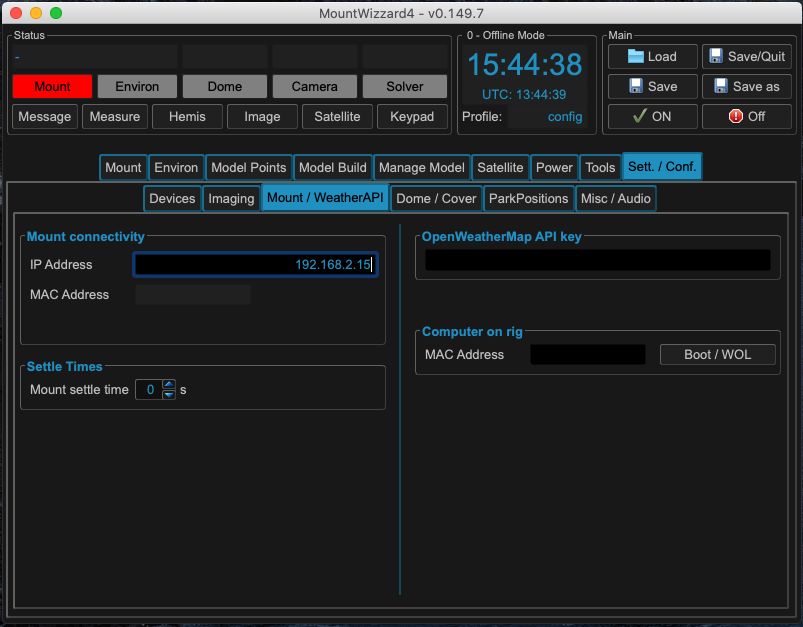
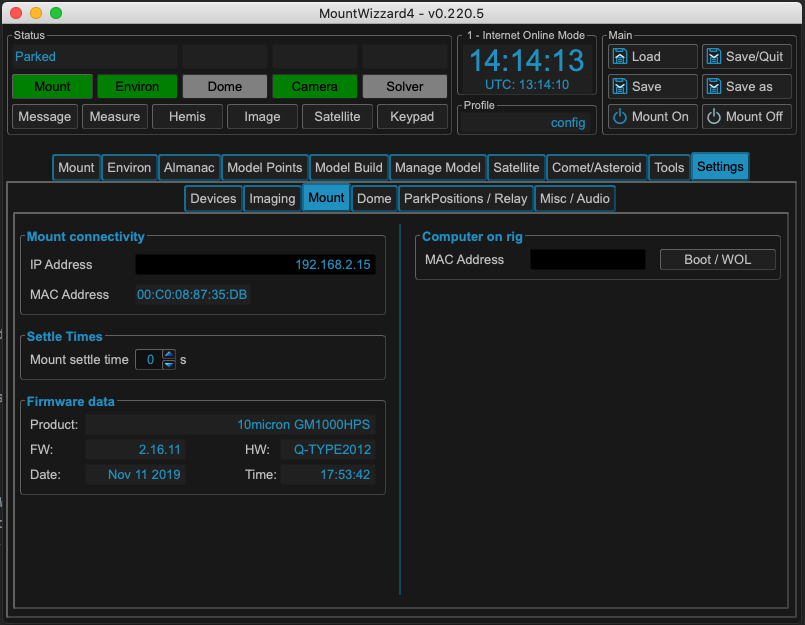
update docs

diff --git a/docs/source/explain/setting.rst b/docs/source/explain/setting.rst
@@ -1,21 +1,23 @@
 Main Window Settings Tab
 ========================
-In the main window the last tab called "Sett. / Conf." points to menu where all the settings
-for MW4 could be configured. It is like the main window split into multiple Tabs.
+In the main window the last tab called "Sett. / Conf." points to menu where all
+the settings for MW4 could be configured. It is like the main window split into
+multiple Tabs.
 
 Devices Tab
 -----------
-The devices tab is the central point for MW4 to define the devices, which are used within
-the program. Drop down lists let you select the appropriate device source or disable it.
-Disabled devices might occur gray in the menu or are even removed (like Relay or Power)
+The devices tab is the central point for MW4 to define the devices, which are used
+within the program. Drop down lists let you select the appropriate device source
+or disable it. Disabled devices might occur gray in the menu or are even removed
+(like Relay or Power)
 
 .. image:: image/sett_devices_tab.png
     :align: center
     :scale: 71%
 
-The drop down lists are colored in green, whenever a device could be connected. A status
-change could take some seconds to connect to a server or to start runtime. There is no need
-to get all devices populated if not needed.
+The drop down lists are colored in green, whenever a device could be connected. A
+status change could take some seconds to connect to a server or to start runtime.
+There is no need to get all devices populated if not needed.
 
 The following different device types are present:
 
@@ -39,16 +41,16 @@ The following different device types are present:
 
 A snoop device is only read for information, but not needed for active functions.
 
-Some of the devices have a setup button. When selecting, a popup window will show up. You
-have to make selections for an INDI server:
+Some of the devices have a setup button. When selecting, a popup window will show
+up. You have to make selections for an INDI server:
 
 .. image:: image/sett_devices_popup_indi.png
     :align: center
     :scale: 71%
 
-For the INDI configuration you could search for devices of the given type and select them
-via drop down menu. In addition you could copy the settings for host address, host port,
-showing indi messages in main message window to all INDI devices.
+For the INDI configuration you could search for devices of the given type and
+select them via drop down menu. In addition you could copy the settings for host
+address, host port, showing indi messages in main message window to all INDI devices.
 
 MW4 supports ASCOM ALPACA as well:
 
@@ -56,8 +58,8 @@ MW4 supports ASCOM ALPACA as well:
     :align: center
     :scale: 71%
 
-For ALPACA you setup the parameter accordingly. Like in INDI you could copy the protocol,
-host address, host port, user and password to all other alpaca device.
+For ALPACA you setup the parameter accordingly. Like in INDI you could copy the
+protocol, host address, host port, user and password to all other alpaca device.
 
 
 Imaging Tab
@@ -70,33 +72,35 @@ The imaging tab is central setup for all things related to gather images.
 
 Area 1: Imaging Settings
 ^^^^^^^^^^^^^^^^^^^^^^^^
-The most important functions needed for the camera, cooler, filter wheel is set there. Some
-of the functions are only available when your device supports it (like ISO, sub frame etc.).
+The most important functions needed for the camera, cooler, filter wheel is set
+there. Some of the functions are only available when your device supports it (like
+ISO, sub frame etc.).
 
 Area 2: Image handling
 ^^^^^^^^^^^^^^^^^^^^^^
-You could enable fast download of images from your camera (3) - if supported and decide and
-check if you would like to keep the images from model build on your disk. Normally all data
-after a model build is stored anyway. So if you dont need the images for analyse later,
-there is no need for keep them.
+You could enable fast download of images from your camera (3) - if supported and
+decide and check if you would like to keep the images from model build on your
+disk. Normally all data after a model build is stored anyway. So if you dont need
+the images for analyse later, there is no need for keep them.
 
 Area 3: Imaging Parameters
 ^^^^^^^^^^^^^^^^^^^^^^^^^^
-Parameters of you imaging train are collected, calculated and shown there. For accessing all
-parameters, MW4 needs the telescope snooping set and the parameters set in your INDI server.
+Parameters of you imaging train are collected, calculated and shown there. For
+accessing all parameters, MW4 needs the telescope snooping set and the parameters
+set in your INDI server.
 
 Area 4: Imaging Quality
 ^^^^^^^^^^^^^^^^^^^^^^^
-Out of literature there are some known quality parameters, which MW4 calculates for you. It
-might help you in choosing the right setup, it's for information only.
+Out of literature there are some known quality parameters, which MW4 calculates
+for you. It might help you in choosing the right setup, it's for information only.
 
 Area 5: Solver
 ^^^^^^^^^^^^^^
-There aren't much setting for the solver to be made. MW4 uses external programs for plate
-solving an image. You should set the search radius and the solving timeout. Good value are
-30 degrees for radius and 30 seconds for timeout.
+There aren't much setting for the solver to be made. MW4 uses external programs
+for plate solving an image. You should set the search radius and the solving
+timeout. Good value are 30 degrees for radius and 30 seconds for timeout.
 
-Mount / Weather Tab
+Mount Tab
 -------------------
 .. image:: image/sett_mount_tab.png
     :align: center
@@ -104,38 +108,37 @@ Mount / Weather Tab
 
 Area 1: Mount Connectivity
 ^^^^^^^^^^^^^^^^^^^^^^^^^^
-For MW4, the mount has to be connected via an IP connection. A serial link is not supported!
+For MW4, the mount has to be connected via an IP connection. A serial link is not
+supported!
 
 .. note::
-    I recommend a wired connected (ethernet cable) as there is heavy communication with the
-    mount computer when running a rich feature set.
+    I recommend a wired connected (ethernet cable) as there is heavy communication
+    with the mount computer when running a rich feature set.
 
-You could enter the ip address numerical but as well in general host name string. Once you
-connect the mount and booted it manually, the MAC address field and the connection type will
-be populated automatically. If you enabled wake on lan (WOL) for booting the mount, MW4 from
-then on could boot the mount with this command.
+You could enter the ip address numerical but as well in general host name string.
+Once you connect the mount and booted it manually, the MAC address field and the
+connection type will be populated automatically. If you enabled wake on lan (WOL)
+for booting the mount, MW4 from then on could boot the mount with this command.
 
 .. note::
-    Wake on lan functionality is only available on a wired connection and if you mount
-    computer and the device your are running MW4 on is in the same subnet of you network.
+    Wake on lan functionality is only available on a wired connection and if you
+    mount computer and the device your are running MW4 on is in the same subnet of
+    you network.
 
 Area 2: Mount Settle Time
 ^^^^^^^^^^^^^^^^^^^^^^^^^
-After slewing your setup might need some time for settle before starting imaging again. With
-this parameter you could choose the waiting time.
+After slewing your setup might need some time for settle before starting imaging
+again. With this parameter you could choose the waiting time.
 
-Area 3: OpenWeatherMap API
-^^^^^^^^^^^^^^^^^^^^^^^^^^
-Open Weather delivers a free forecast of the environment conditions based on your location.
-You could apply for an API key there: https://openweathermap.org. As out of now for the
-basic service it's free of charge and Open Weather delivers refraction data for your location.
-To enable the service within MW4, you have to enter your API key.
+Area 3: Mount Firmware data
+^^^^^^^^^^^^^^^^^^^^^^^^^^^
+All firmware information from you mount is displayed here.
 
 Area 4: Computer on rig
 ^^^^^^^^^^^^^^^^^^^^^^^
-If you have a computer on your rig, which could be booted via wake on lan as well, you could
-enter the MAC address here and remote boot this computer from MW4. There are the same
-limitations for WOL like for the mount.
+If you have a computer on your rig, which could be booted via wake on lan as well,
+you could enter the MAC address here and remote boot this computer from MW4. There
+are the same limitations for WOL like for the mount.
 
 Dome / Cover Tab
 ----------------
@@ -147,24 +150,25 @@ MW4 could handle a dome which is connected via INDI.
 
 Area 1: Dome geometry
 ^^^^^^^^^^^^^^^^^^^^^
-If a dome is connected and as device setup, MW4 will slew the dome to the azimuth, the mount
-is slewed to automatically. If you own an all sky dome this is sufficient. In other setups
-there is the need to calculate the right dome opening for the appropriate geometry in your
-setup. In this case, please check the enable geometry calculations box and setup the geometry
-parameters of your dome and the position of your mount in relation to the dome. If you think
-of the center point of the dome as a hemisphere, the distances (offsets) from your mount to
-this point have to be entered. The base point of the mount is the center of the mount
-adapter ring.
+If a dome is connected and as device setup, MW4 will slew the dome to the azimuth,
+the mount is slewed to automatically. If you own an all sky dome this is
+sufficient. In other setups there is the need to calculate the right dome opening
+for the appropriate geometry in your setup. In this case, please check the enable
+geometry calculations box and setup the geometry parameters of your dome and the
+position of your mount in relation to the dome. If you think of the center point
+of the dome as a hemisphere, the distances (offsets) from your mount to this point
+have to be entered. The base point of the mount is the center of the mount adapter
+ring.
 
-For setting up the GEM and OTA offset the picture (3) should help you. There is no need for
-setting both of them. GEM offset is the more known parameter whereas OTA offset might be
-easier to measure. As they are dependant on each other, MW4 will calculate the other
-parameter automatically for you.
+For setting up the GEM and OTA offset the picture (3) should help you. There is no
+need for setting both of them. GEM offset is the more known parameter whereas OTA
+offset might be easier to measure. As they are dependant on each other, MW4 will
+calculate the other parameter automatically for you.
 
 Area 2: Dome Settle time
 ^^^^^^^^^^^^^^^^^^^^^^^^
-After moving your dome, your setup might need some time for settle before starting imaging
-again. With this parameter you could choose the waiting time.
+After moving your dome, your setup might need some time for settle before starting
+imaging again. With this parameter you could choose the waiting time.
 
 Area 4: Cover
 ^^^^^^^^^^^^^
@@ -172,16 +176,16 @@ If you have a telescope cover device setup, you could open and close your cover.
 
 Park Position Tab
 -----------------
-MW4 stores up to 10 different park positions for you. You could setup these positions with
-text (the text will be displayed in the tools menu), and altitude and azimuth for the
-position.
+MW4 stores up to 10 different park positions for you. You could setup these
+positions with text (the text will be displayed in the tools menu), and altitude
+and azimuth for the position.
 
 .. image:: image/sett_dome_tab.png
     :align: center
     :scale: 71%
 
-The fill in button in each line allows to directly set altitude and azimuth of the actual
-position in the according fields.
+The fill in button in each line allows to directly set altitude and azimuth of the
+actual position in the according fields.
 
 Audio / Misc Tab
 ----------------
@@ -191,8 +195,8 @@ Audio / Misc Tab
 
 Area 1: Internet Connection
 ^^^^^^^^^^^^^^^^^^^^^^^^^^^
-You could tell MW4 to get online and update data or stay in unconnected mode. There are some
-functions, which need an online connection to work properly:
+You could tell MW4 to get online and update data or stay in unconnected mode.
+There are some functions, which need an online connection to work properly:
 
 .. list-table:: Online related Services
     :widths: 25, 75
@@ -213,34 +217,30 @@ functions, which need an online connection to work properly:
 Area 2: Updater
 ^^^^^^^^^^^^^^^
 MW4 is able to handle updates via the python package management. You see the actual
-installed version and the available version. Pressing install will update MW4. You need to
-restart MW4 to run the new version.
+installed version and the available version. Pressing install will update MW4. You
+need to restart MW4 to run the new version.
 
-MW4 offers to install alpha or beta releases as well. If you would like to do so, please
-check the according box.
+MW4 offers to install alpha or beta releases as well. If you would like to do so,
+please check the according box.
 
-Area 3: Firmware Data
-^^^^^^^^^^^^^^^^^^^^^
-Actual firmware data is collected and shown in this area.
-
-Area 4: Logging Levels
+Area 3: Logging Levels
 ^^^^^^^^^^^^^^^^^^^^^^
-As MW4 is not perfect things might happen and to review the situation and review it, MW4
-writes log files. For all release versions information setting is ok, for alpha and beta
-version debugging should be set. The log file could become big as MW4 tries to log all data
-needed for bugfixing.
+As MW4 is not perfect things might happen and to review the situation and review
+it, MW4 writes log files. For all release versions information setting is ok, for
+alpha and beta version debugging should be set. The log file could become big as
+MW4 tries to log all data needed for bugfixing.
 
 .. note::
-    If you experience problems or want to file a bug, please attach the log file from your
-    work directory. The best way to file a problem is to open an issue on:
+    If you experience problems or want to file a bug, please attach the log file
+    from your work directory. The best way to file a problem is to open an issue on:
 
     https://github.com/mworion/MountWizzard4/issues.
 
-    Please take the time for a explanation what happened and drop the log file to this issue
-    as well. It's easy to do and the size of the log file should not matter. Using issues on
-    GitHub help me to improve MW4.
+    Please take the time for a explanation what happened and drop the log file to
+    this issue as well. It's easy to do and the size of the log file should not
+    matter. Using issues on GitHub help me to improve MW4.
 
-Area 5: Audio Signals
+Area 4: Audio Signals
 ^^^^^^^^^^^^^^^^^^^^^
-MW4 could play audio signals for some events to giv you an audio feedback what is happening.
-Event and audio could be setup.
+MW4 could play audio signals for some events to giv you an audio feedback what is
+happening. Event and audio could be setup.
